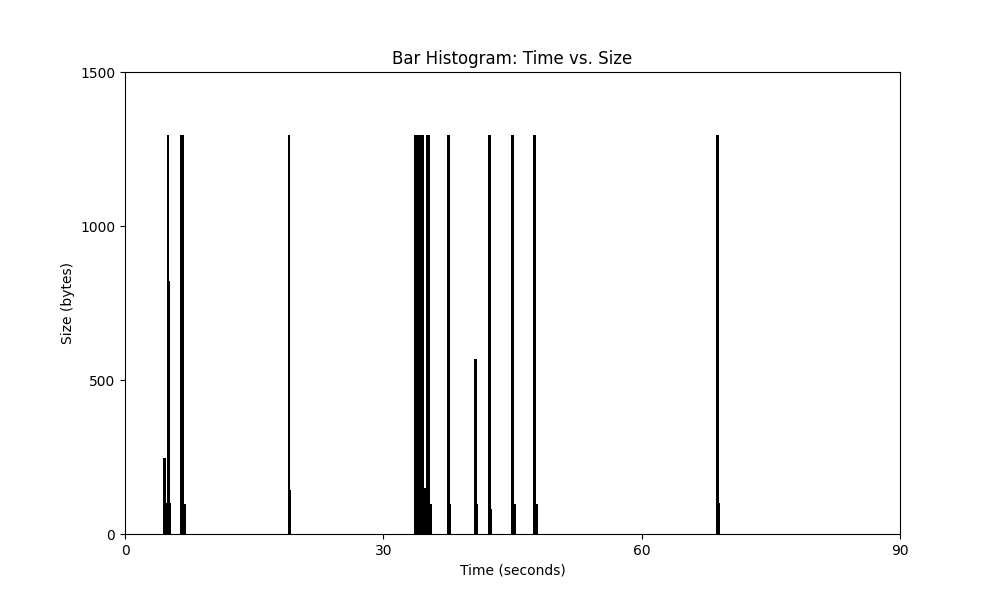
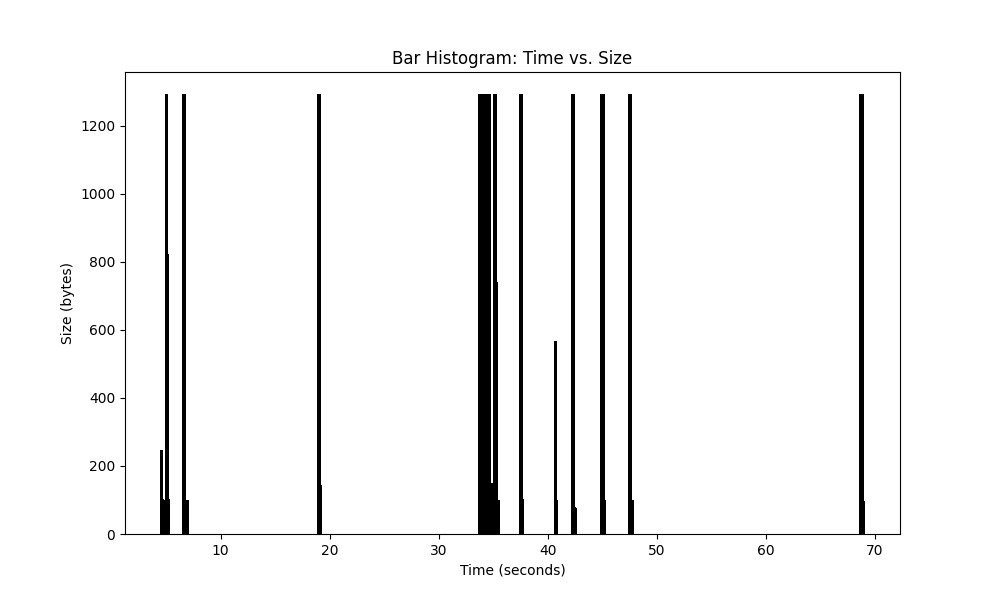
editing README

diff --git a/src/normalGraphs.py b/src/normalGraphs.py
@@ -13,21 +13,34 @@ def create_and_save_histogram(dataframe, output_filename):
     plt.ylabel('Size (bytes)')
     plt.title('Bar Histogram: Time vs. Size')
 
-    plt.xticks(range(0, 91, 30))  # Adjust x-axis ticks to every 30 seconds
-    plt.yticks(range(0, 6001, 500))  # Adjust y-axis ticks to every 500 bytes
 
-    if not os.path.exists('res'):
-        os.makedirs('res')
+    if not os.path.exists('../res/Time_Size_results'):
+        os.makedirs('../res/Time_Size_results')
     plt.savefig(output_filename)
-    plt.show()
 
 
 def main():
-    data_file = 'FileAudioTCP.csv'
-    dataframe = pd.read_csv(data_file)
+    clean_data_files = ['../resources/Clean/TextClean.csv','../resources/Clean/ImageClean.csv','../resources/Clean/VideoClean.csv','../resources/Clean/Audio&FilesClean.csv']
+    raw_data_file = ['../resources/Raw/TextRaw.csv','../resources/Raw/ImageRaw.csv','../resources/Raw/VideoRaw.csv','../resources/Raw/Audio&FilesRaw.csv']
+    while 1:
+        print("To Analyze the Filtered Files press 1\nTo Analyze the Unfiltered Files press 2\n")
+        x =input()
+        if x == '1':
+            for data_file in clean_data_files:
+                dataframe = pd.read_csv(data_file)
+                output_file_name = f'../res/Time_Size_results/{os.path.basename(data_file)[:-4]}.png'
+                create_and_save_histogram(dataframe, output_file_name)
+            break
+        elif x == '2':
+            for data_file in raw_data_file:
+                dataframe = pd.read_csv(data_file)
+                output_file_name = f'../res/Time_Size_results/{os.path.basename(data_file)[:-4]}.png'
+                create_and_save_histogram(dataframe, output_file_name)
+            break
+        else:
+            print("Wrong Input, Please Try Again.")
 
-    output_file_name = f'res/{os.path.basename(data_file)[:-4]}.png'
-    create_and_save_histogram(dataframe, output_file_name)
+
 
 
 if __name__ == "__main__":
